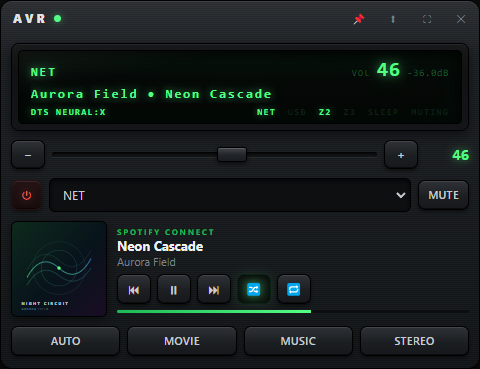
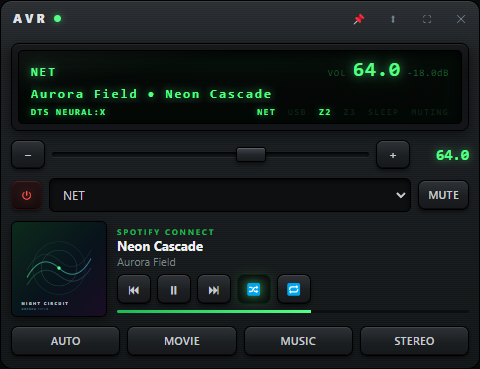
Read volume resolution from the receiver instead of assuming whole dB
MVL is a raw step count whose size varies by model. The app treated one
step as 1 dB, so on a half-dB receiver every reading was wrong: raw 72
showed as -10.0 dB when the receiver was actually at -46.0 dB, and the
knob could only reach half of its intended range.

NRIQSTN returns a zone list carrying volmax and volstep, so the scale is
now read from the receiver on connect rather than guessed, per zone. The
readout shows the true half-dB value, and the knob and zone sliders take
their range from it.

Falls back to whole-dB when a receiver doesn't answer NRIQSTN, which is
the safe direction to be wrong in: under-estimating the scale limits the
knob's reach, while over-estimating would send raw values the receiver
clamps to maximum volume. A raw value above the assumed maximum also
proves the finer scale, so that case self-corrects.

Verified against a DRX-3.4: raw 72 renders 36.0 / -46.0dB, matching the
NRI scale and Home Assistant, and MVLUP steps it to 36.5 / -45.5dB.

diff --git a/main/main.js b/main/main.js
@@ -25,6 +25,19 @@ function saveSettings() {
 /* ------------------------------------------------------------------ */
 const state = {
   connection: { state: 'disconnected', ip: null, model: null },
+  /*
+   * Volume scale, read from the receiver's own NRI device description.
+   * volstep=0 means half-dB steps, so the raw MVL value is twice the number
+   * shown on the front panel; volstep=1 means raw == displayed. Defaulting to
+   * whole-dB is the safe guess: if we under-estimate the scale the knob simply
+   * can't reach full output, whereas over-estimating would send a raw value the
+   * receiver clamps to maximum volume.
+   */
+  scale: {
+    main: { step: 1, volmax: 100, maxRaw: 100 },
+    z2: { step: 1, volmax: 100, maxRaw: 100 },
+    z3: { step: 1, volmax: 100, maxRaw: 100 },
+  },
   power: false,
   volume: 0, maxVolume: 100, mute: false,
   input: null,            // SLI hex code
@@ -57,10 +70,26 @@ function signedHex(d) {
   return hex(d);
 }
 
-const QUERIES_MAIN = ['PWRQSTN','MVLQSTN','AMTQSTN','SLIQSTN','LMDQSTN','TFRQSTN','SWLQSTN','CTLQSTN',
+const QUERIES_MAIN = ['NRIQSTN','PWRQSTN','MVLQSTN','AMTQSTN','SLIQSTN','LMDQSTN','TFRQSTN','SWLQSTN','CTLQSTN',
   'DIMQSTN','SLPQSTN','HDOQSTN','LTNQSTN','MOTQSTN','TUNQSTN','IFAQSTN','IFVQSTN'];
 const QUERIES_ZONES = ['ZPWQSTN','ZVLQSTN','ZMTQSTN','SLZQSTN','PW3QSTN','VL3QSTN','MT3QSTN','SL3QSTN'];
 const QUERIES_NET = ['NJAENA','NTIQSTN','NATQSTN','NALQSTN','NSTQSTN','NTMQSTN','NJAREQ'];
+
+// <zone id="1" value="1" name="Main" volmax="100" volstep="0" ... />
+function parseNri(xml) {
+  const zoneKey = { 1: 'main', 2: 'z2', 3: 'z3' };
+  const re = /<zone\s+id="(\d)"[^>]*?volmax="(\d+)"[^>]*?volstep="(\d)"/g;
+  let m, found = false;
+  while ((m = re.exec(xml)) !== null) {
+    const key = zoneKey[Number(m[1])];
+    const volmax = Number(m[2]);
+    if (!key || !volmax) continue;
+    const step = Number(m[3]) === 0 ? 0.5 : 1;
+    state.scale[key] = { step, volmax, maxRaw: Math.round(volmax / step) };
+    found = true;
+  }
+  return found;
+}
 
 function queryAll() {
   [...QUERIES_MAIN, ...QUERIES_ZONES, ...QUERIES_NET].forEach((q) => client.send(q));
@@ -108,7 +137,15 @@ client.on('art', (dataUrl) => {
 client.on('message', ({ cmd, data }) => {
   switch (cmd) {
     case 'PWR': state.power = data === '01'; break;
-    case 'MVL': state.volume = hex(data); break;
+    case 'MVL':
+      state.volume = hex(data);
+      // Safety net for units that don't answer NRIQSTN: a raw value above the
+      // assumed maximum can only mean the scale is finer than we thought.
+      if (state.volume > state.scale.main.maxRaw && state.scale.main.step === 1) {
+        state.scale.main = { step: 0.5, volmax: state.scale.main.volmax,
+                             maxRaw: state.scale.main.volmax * 2 };
+      }
+      break;
     case 'AMT': state.mute = data === '01'; break;
     case 'SLI':
       state.input = data;
@@ -142,6 +179,7 @@ client.on('message', ({ cmd, data }) => {
     case 'TUN': state.tuner = data; break;
     case 'IFA': state.audioInfo = data; break;
     case 'IFV': state.videoInfo = data; break;
+    case 'NRI': parseNri(data); break;
     case 'NTI':
       if (data !== state.net.title) {
         state.net.title = data;

diff --git a/renderer/shared.js b/renderer/shared.js
@@ -40,7 +40,25 @@ const LTN_LABEL = { '00': 'OFF', '01': 'LOW', '02': 'HIGH', '03': 'AUTO' };
 const cmd = (m) => window.integra.cmd(m);
 const h2 = (n) => Math.max(0, Math.round(n)).toString(16).toUpperCase().padStart(2, '0');
 const signed = (n) => (n === 0 ? '00' : (n > 0 ? '+' : '-') + Math.abs(n).toString(16).toUpperCase());
-const volDb = (v) => (v <= 0 ? '---' : ((v - 82) > 0 ? '+' : '') + (v - 82).toFixed(1) + 'dB');
+/*
+ * The receiver reports volume as a raw step count. On units with half-dB
+ * resolution one raw step is 0.5, so the number on the front panel is
+ * raw * step, and 82.0 on that absolute scale is 0 dB.
+ */
+const ZERO_DB_ABS = 82;
+const SAFE_SCALE = { step: 1, volmax: 100, maxRaw: 100 };
+const mainScale = (s) => (s && s.scale && s.scale.main) || SAFE_SCALE;
+const zoneScale = (s, z) => (s && s.scale && s.scale[z]) || SAFE_SCALE;
+const volAbs = (raw, step) => raw * (step || 1);
+const fmtVol = (raw, step) => {
+  const a = volAbs(raw, step);
+  return (step === 0.5) ? a.toFixed(1) : String(a);
+};
+const volDb = (raw, step) => {
+  if (raw <= 0) return '---';
+  const db = volAbs(raw, step) - ZERO_DB_ABS;
+  return (db > 0 ? '+' : '') + db.toFixed(1) + 'dB';
+};
 const esc = (s) => String(s || '').replace(/[&<>"]/g, (c) => ({ '&': '&amp;', '<': '&lt;', '>': '&gt;', '"': '&quot;' }[c]));
 
 function fmtTuner(d) {
@@ -85,8 +103,9 @@ function updateVFD(s) {
   if (!el('vfdInput')) return;
 
   el('vfdInput').textContent = on ? (INPUT_LABEL[s.input] || (s.input ? 'IN ' + s.input : '—')) : 'STANDBY';
-  el('vfdVolNum').textContent = on ? (s.mute ? '--' : String(s.volume)) : '';
-  el('vfdVolDb').textContent = on && !s.mute ? volDb(s.volume) : '';
+  const step = mainScale(s).step;
+  el('vfdVolNum').textContent = on ? (s.mute ? '--' : fmtVol(s.volume, step)) : '';
+  el('vfdVolDb').textContent = on && !s.mute ? volDb(s.volume, step) : '';
 
   // main line: track info when NET source is playing, else input + mode
   let main = '';
@@ -198,11 +217,16 @@ function demoArt() {
 if (!window.integra) {
   const demoState = {
     connection: { state: 'connected', ip: '192.168.1.120', model: 'DRX-3.4' },
-    power: true, volume: 46, maxVolume: 100, mute: false,
+    scale: {
+      main: { step: 0.5, volmax: 100, maxRaw: 200 },
+      z2: { step: 0.5, volmax: 100, maxRaw: 200 },
+      z3: { step: 0.5, volmax: 100, maxRaw: 200 },
+    },
+    power: true, volume: 128, maxVolume: 100, mute: false,
     input: '2B', mode: '82',
     bass: 2, treble: 0, swl: 3, ctl: 0,
     dimmer: '00', sleep: 0, hdo: '01', ltn: '00', mot: '01',
-    z2: { power: true, volume: 32, mute: false, input: '2B' },
+    z2: { power: true, volume: 64, mute: false, input: '2B' },
     z3: { power: false, volume: 0, mute: false, input: null },
     tuner: '09790',
     audioInfo: 'NET,Spotify,48 kHz,2.0 ch,,Neural:X,5.1.2 ch',

diff --git a/renderer/full.js b/renderer/full.js
@@ -92,8 +92,11 @@ document.getElementById('z3Input').onchange = (e) => e.target.value && cmd('SL3'
 /* ---------------- volume knob ---------------- */
 const knob = document.getElementById('volKnob');
 const knobDot = document.getElementById('knobDot');
-const MAXV = 82; // practical ceiling for the DRX-3.4 dial
+// Knob spans silence to 0 dB. Expressed in raw steps, so it follows whatever
+// resolution the receiver reported rather than assuming whole-dB units.
+let MAXV = 82;
 const A0 = -135, A1 = 135;
+function setKnobRange(step) { MAXV = Math.round(ZERO_DB_ABS / (step || 1)); }
 
 (function drawTicks() {
   const c = document.getElementById('tickRing').getContext('2d');
@@ -127,9 +130,10 @@ knob.addEventListener('pointerdown', (e) => { dragging = true; knob.setPointerCa
 knob.addEventListener('pointermove', (e) => {
   if (!dragging) return;
   const v = volFromEvent(e);
+  const step = S ? mainScale(S).step : 1;
   setKnob(v);
-  document.getElementById('volNum').textContent = v;
-  document.getElementById('volDb').textContent = volDb(v);
+  document.getElementById('volNum').textContent = fmtVol(v, step);
+  document.getElementById('volDb').textContent = volDb(v, step);
   clearTimeout(volSendT);
   volSendT = setTimeout(() => cmd('MVL' + h2(v)), 80);
 });
@@ -189,8 +193,10 @@ function render(s) {
   document.getElementById('btnPower').classList.toggle('power-on', on);
   document.getElementById('btnMute').classList.toggle('active', s.mute);
 
-  document.getElementById('volNum').textContent = on ? s.volume : '--';
-  document.getElementById('volDb').textContent = on ? volDb(s.volume) : '';
+  const step = mainScale(s).step;
+  setKnobRange(step);
+  document.getElementById('volNum').textContent = on ? fmtVol(s.volume, step) : '--';
+  document.getElementById('volDb').textContent = on ? volDb(s.volume, step) : '';
   if (!dragging) setKnob(s.volume);
 
   inputGrid.querySelectorAll('.btn').forEach((b) =>
@@ -238,8 +244,12 @@ function render(s) {
   document.getElementById('z3Power').classList.toggle('power-on', s.z3.power);
   document.getElementById('z2Mute').classList.toggle('active', s.z2.mute);
   document.getElementById('z3Mute').classList.toggle('active', s.z3.mute);
-  setSliderIfIdle('z2Vol', s.z2.volume);
-  setSliderIfIdle('z3Vol', s.z3.volume);
+  for (const z of ['z2', 'z3']) {
+    const zs = zoneScale(s, z);
+    const el = document.getElementById(z + 'Vol');
+    if (+el.max !== zs.maxRaw) el.max = zs.maxRaw;
+    setSliderIfIdle(z + 'Vol', s[z].volume, (v) => fmtVol(v, zs.step));
+  }
   if (s.z2.input) document.getElementById('z2Input').value = s.z2.input;
   if (s.z3.input) document.getElementById('z3Input').value = s.z3.input;
 

diff --git a/renderer/mini.js b/renderer/mini.js
@@ -48,7 +48,8 @@ let volDragging = false;
 mVol.addEventListener('pointerdown', () => { volDragging = true; });
 mVol.addEventListener('pointerup', () => { volDragging = false; });
 mVol.addEventListener('input', () => {
-  document.getElementById('mVolNum').textContent = mVol.value;
+  document.getElementById('mVolNum').textContent =
+    fmtVol(+mVol.value, S ? mainScale(S).step : 1);
   clearTimeout(volT);
   volT = setTimeout(() => cmd('MVL' + h2(+mVol.value)), 100);
 });
@@ -62,7 +63,9 @@ function render(s) {
 
   document.getElementById('btnPower').classList.toggle('power-on', s.power);
   document.getElementById('btnMute').classList.toggle('active', s.mute);
-  document.getElementById('mVolNum').textContent = s.power ? s.volume : '--';
+  const step = mainScale(s).step;
+  if (+mVol.max !== mainScale(s).maxRaw) mVol.max = mainScale(s).maxRaw;
+  document.getElementById('mVolNum').textContent = s.power ? fmtVol(s.volume, step) : '--';
   if (!volDragging) mVol.value = s.volume;
   if (s.input) mInput.value = s.input;
 

diff --git a/renderer/mini.html b/renderer/mini.html
@@ -42,7 +42,7 @@
   .mini-row .btn { padding: 7px 9px; font-size: 10.5px; }
   .mini-row select { flex: 1; }
 
-  .mini-vol { display: grid; grid-template-columns: 34px 1fr 34px 44px; gap: 7px; align-items: center; }
+  .mini-vol { display: grid; grid-template-columns: 34px 1fr 34px 52px; gap: 7px; align-items: center; }
   .mini-vol .btn { padding: 6px 0; }
   .mini-vol .num { font-family: Consolas, monospace; font-size: 15px; font-weight: 700;
     color: var(--vfd); text-shadow: 0 0 8px var(--vfd-glow); text-align: right; }

diff --git a/README.md b/README.md
@@ -84,6 +84,14 @@ a UDP broadcast of `ECNQSTN` on the same port.
 Two behaviours are worth knowing about, both learned from a live DRX-3.4:
 
 - **Tone and level values are in half-decibel units.** A reported `+5` is +2.5 dB.
+- **Volume resolution varies by model, and the receiver will tell you.** `NRIQSTN`
+  returns a device description whose zone list carries `volmax` and `volstep`; a
+  `volstep` of `0` means half-dB steps, so the raw `MVL` value is double the number on
+  the front panel (raw 72 = 36.0 = -46.0 dB), while `1` means they match. The app reads
+  this on connect and scales the readout, the knob and the zone sliders to suit. If a
+  receiver doesn't answer `NRIQSTN`, it falls back to whole-dB — deliberately the
+  cautious guess, since assuming a finer scale than the receiver has would send raw
+  values it clamps to maximum volume.
 - **Spotify Connect cover art does not arrive over eISCP.** The receiver answers the
   `NJA` artwork request with "no image" and instead serves the current cover from its own
   HTTP endpoint at `/album_art.cgi`. That response also carries a stray CGI header block
